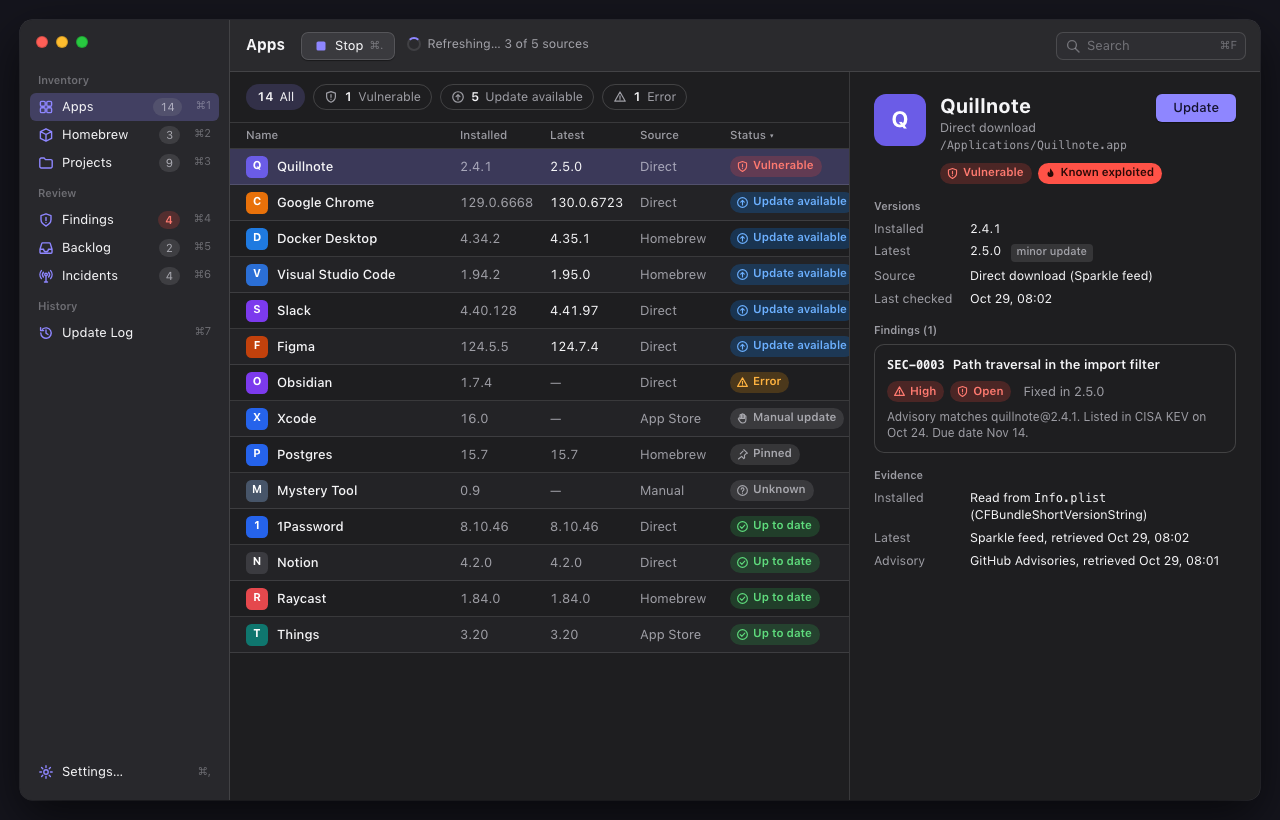
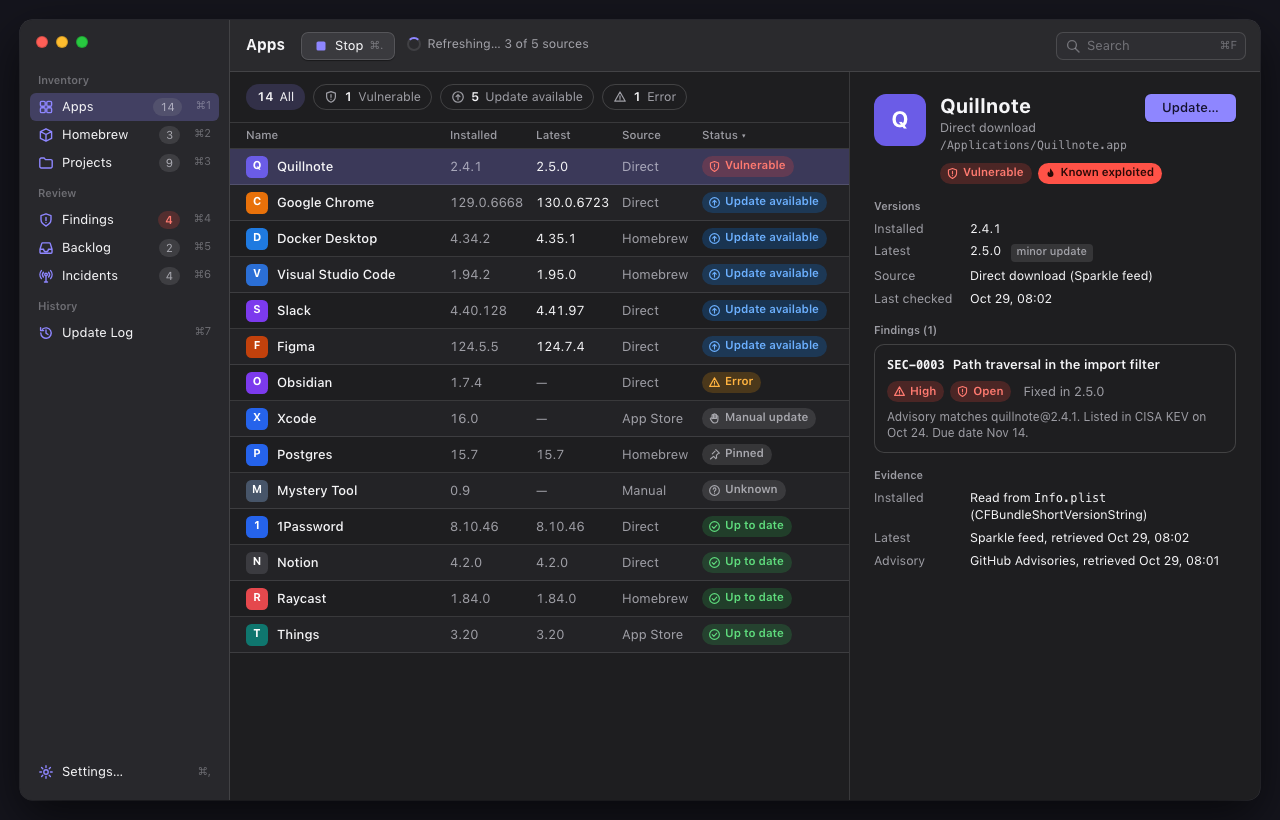
#31: Use Update… label and fix the clipped Update available badge

diff --git a/design/mockups/dashboard.html b/design/mockups/dashboard.html
@@ -8,7 +8,7 @@
 .seg b { font-weight: 600; color: var(--label); font-variant-numeric: tabular-nums; }
 .seg.on { background: var(--accent-soft); border-color: transparent; color: var(--label); }
 .seg svg.sf { width: 14px; height: 14px; }
-.th, .tr { display: grid; grid-template-columns: 206px 82px 82px 82px 1fr; align-items: center; padding: 0 16px; }
+.th, .tr { display: grid; grid-template-columns: 196px 78px 78px 72px minmax(150px, 1fr); align-items: center; padding: 0 16px; }
 .th { height: 26px; font-size: 11.5px; color: var(--label2); border-bottom: 1px solid var(--sep); font-weight: 500; }
 .tr { height: 36px; border-bottom: .5px solid var(--sep); }
 .tr:nth-child(even) { background: var(--bg-row-alt); }
@@ -81,7 +81,7 @@ dEl.innerHTML = never ? `<div class="empty" style="display:flex;margin-top:120px
   <div class="dh"><span class="ico" style="background:${C.Q}">Q</span>
     <div><h1>Quillnote</h1><div class="meta">Direct download<br><span class="mono" style="font-size:11.5px">/Applications/Quillnote.app</span></div>
       <div style="display:flex;gap:6px;margin-top:9px">${badge('Vulnerable')}${badge('Known exploited')}</div></div>
-    <div class="act"><span class="btn prom lg">Update</span></div></div>
+    <div class="act"><span class="btn prom lg">Update…</span></div></div>
   <div><div class="h">Versions</div><div class="kv"><span>Installed</span><span class="num">2.4.1</span><span>Latest</span><span class="num">2.5.0 <span class="chip" style="margin-left:6px">minor update</span></span><span>Source</span><span>Direct download (Sparkle feed)</span><span>Last checked</span><span>Oct 29, 08:02</span></div></div>
   <div><div class="h">Findings (1)</div><div class="card find">
     <div class="top"><span class="mono b">SEC-0003</span><span class="b">Path traversal in the import filter</span></div>

diff --git a/design/mockups/update-log.html b/design/mockups/update-log.html
@@ -1,7 +1,7 @@
 <!doctype html>
 <html lang="en"><head><meta charset="utf-8"><title>Watchtower: Update Log (#6)</title>
 <link rel="stylesheet" href="shared.css"><script src="shared.js"></script>
-<style>.th, .tr { --cols: 112px 1fr 70px 70px 132px; } .tr { height: 40px; } .out { white-space: pre; font-size: 11.5px; line-height: 1.5; color: var(--label2); }</style></head>
+<style>.th, .tr { --cols: 112px 1fr 70px 70px 132px; } .tr { height: 40px; } .out { white-space: pre-wrap; overflow-wrap: anywhere; font-size: 11.5px; line-height: 1.5; color: var(--label2); }</style></head>
 <body><script>
 T['Verified'] = ['green', 'checkmark.seal']; T['Not verified'] = ['orange', 'exclamationmark.triangle']; T['Failed'] = ['red', 'xmark.octagon']; T['Interrupted'] = ['gray', 'minus.circle'];
 const view = q.get('view') || 'verified';

diff --git a/design/system.md b/design/system.md
@@ -53,5 +53,5 @@ Use the system font. Use `.monospaced` for commands, versions in logs, and IDs l
 - Sidebar: 210 pt. List pane: 620 pt. Detail pane fills the rest.
 
 ## Rules
-- The `Update` button uses the accent color. In a sheet, `Update` is not the default button.
+- The `Update…` button uses the accent color. In a sheet, `Update` is not the default button.
 - Stale, partial and failed states change the refresh label color and add a symbol.
